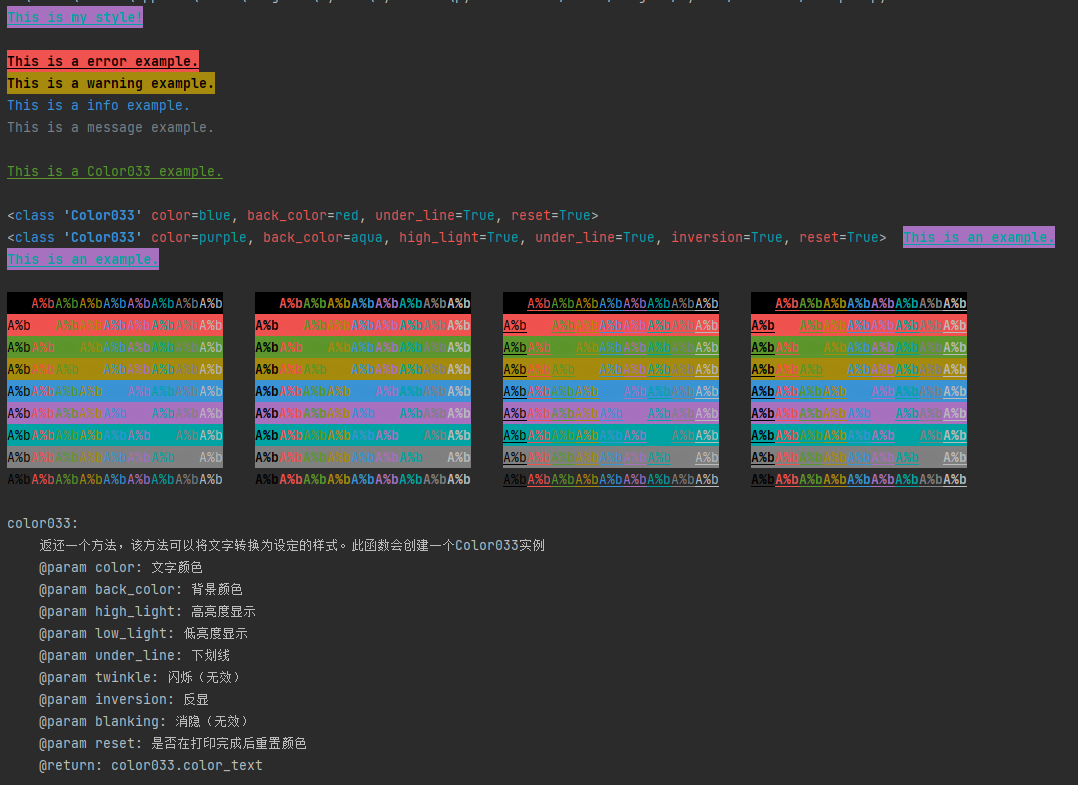
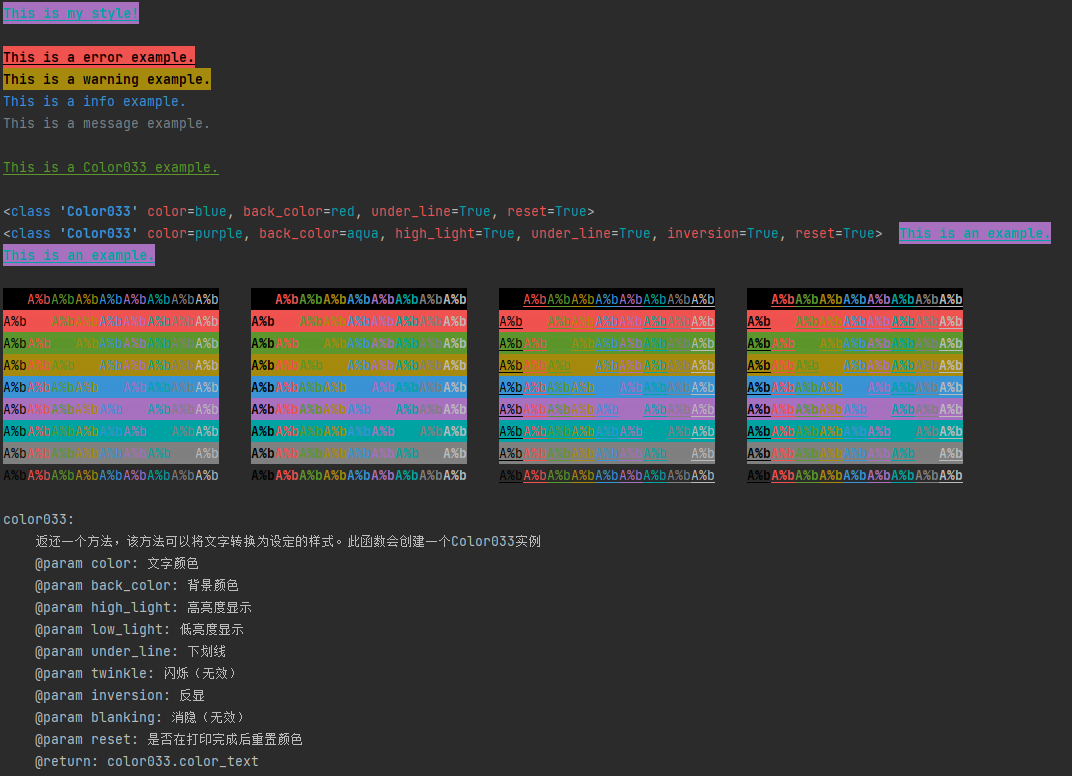
md

Changed region(s): [[0.0, 0.3711, 0.9235, 0.6495], [0.0, 0.0, 0.9851, 0.3402], [0.0, 0.6495, 0.5233, 0.9897]]

diff --git a/README.md b/README.md
@@ -1,3 +1,40 @@
 # Color033
-通过\033字符实现彩色文字样式打印
-![image](https://user-images.githubusercontent.com/34975937/196991711-5e16029e-7e85-45ce-8442-0b4e22e0920a.png)
+
+通过`\033`字符实现彩色文字样式打印
+
+```python
+from color033.default_style import warning, info, error, message
+from color033 import color033, Color033
+
+my_style = color033(color='purple', back_color='aqua', under_line=True, high_light=True, inversion=True)  # 自定义样式
+print(my_style('This is my style!'))  # 打印套用自定义样式的文本
+print()
+print(error('This is a error example.'))  # 打印默认错误样式文本
+print(warning('This is a warning example.'))  # 打印默认警告样式文本
+print(info('This is a info example.'))  # 打印默认信息样式文本
+print(message('This is a message example.'))  # 打印默认消息样式文本
+print()
+print(Color033('This is a Color033 example.', color='green', under_line=True))  # 不通过样式模板创建带样式文本
+print()
+print(Color033(color='blue', back_color='red', under_line=True).__repr__())  # 打印样式参数
+print(my_style('__info__'))  # 打印样式参数
+print(my_style('__obj__'))  # 获取自身对象
+print()
+COLORS = ['black', 'red', 'green', 'yellow', 'blue', 'purple', 'aqua', 'white', '']  # 全部颜色
+# 打印全部样式
+for back in COLORS:
+    for under_line in [False, True]:
+        for high_light in [False, True]:
+            for color in COLORS:
+                print(Color033('A%b', color=color, back_color=back, high_light=high_light, under_line=under_line),
+                      end='')
+            print(end='' if high_light else '    ')
+        print(end='    ')
+    print()
+print()
+print('color033:', color033.__doc__)  # 文档
+
+```
+
+![image](/example.png)
+创建样式后使用样式打印字符串比频繁创建新样式字符串可以节省大量时间与内存开销。（虽然一共也没有多少开销罢了）
